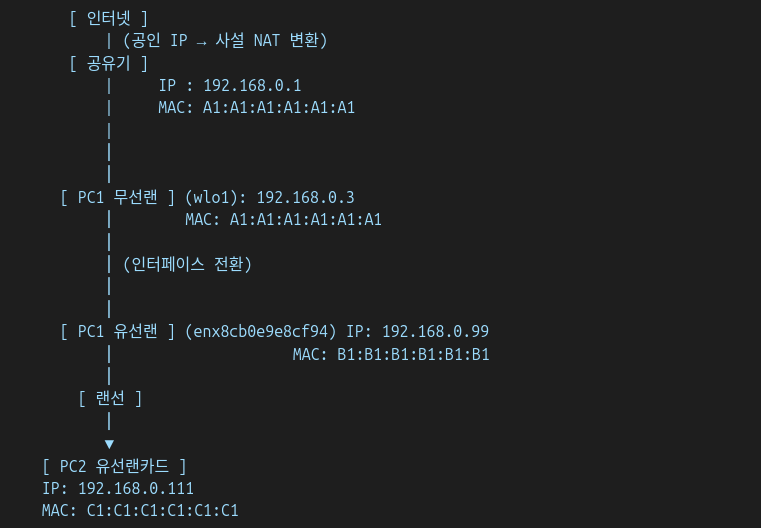
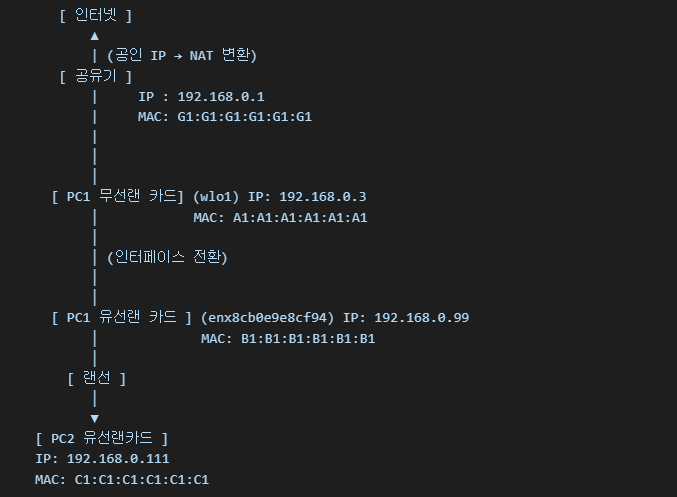
[feat]: 2025.04.30 - Edit readme

Changed region(s): [[0.031, 0.0, 0.7134, 0.996], [0.2792, 0.0604, 0.4343, 0.1207]]

diff --git a/README.md b/README.md
@@ -6,10 +6,50 @@ usermode-L2-L3-firewall
 
 ![screen.png](screen.png)
 
+# 원리
+
+```
+[1] PC2 브라우저 요청
+    Src IP: 192.168.0.111
+    Dst IP: 8.8.8.8
+    Src MAC: C1
+    Dst MAC: B1 → 전달
+
+[2] PC1 유저모드 (pcap 수신)
+    → MAC 주소 수정
+      Src MAC: A1
+      Dst MAC: 공유기 MAC (G1)
+    → 공유기로 전송
+
+[3] 공유기
+    NAT 기록 생성
+    Src IP: 공인 IP로 변경 후 외부 서버로 요청
+
+[4] 외부 응답 도착
+    Src IP: 외부 서버 IP
+    Dst IP: 192.168.0.111
+    Src MAC: 공유기 MAC (G1)
+    Dst MAC: A1
+
+[5] PC1 유저모드 (pcap 수신)
+    → MAC 주소 수정
+      Src MAC: B1
+      Dst MAC: C1
+    → PC2 유선으로 전달
+
+[6] PC2 커널 수신
+    IP/Port 정보 일치 → 응답 처리 → 인터넷 되는 것처럼 동작
+
+[*] 공유기에 연결되어 있지도 않은
+    192.168.0.111을 연결되어있는 것 처럼 속이기 위해
+    192.168.0.1에 ARP 패킷을 지속적으로 보내서 ARP 테이블을 조작
+
+```
+
 # PC1 (외부 인터넷과 연결된 PC)
 
 ![scree2.gif](screen2.gif)
 
-# PC2 (외부 인터넷과 단절된 PC 및 PC1과 다이렉트 연결된 PC)
+# PC2 (외부 인터넷과 단절된 PC)
 
 ![screen3.gif](screen3.gif)
